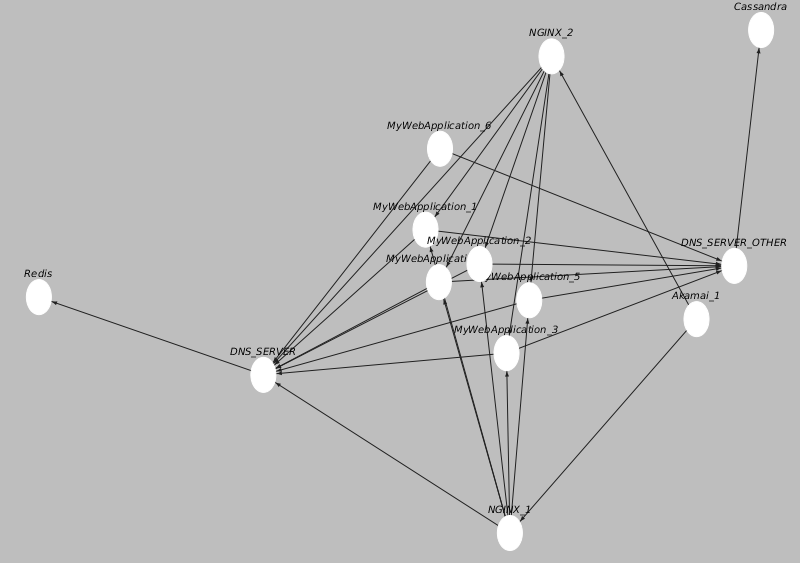
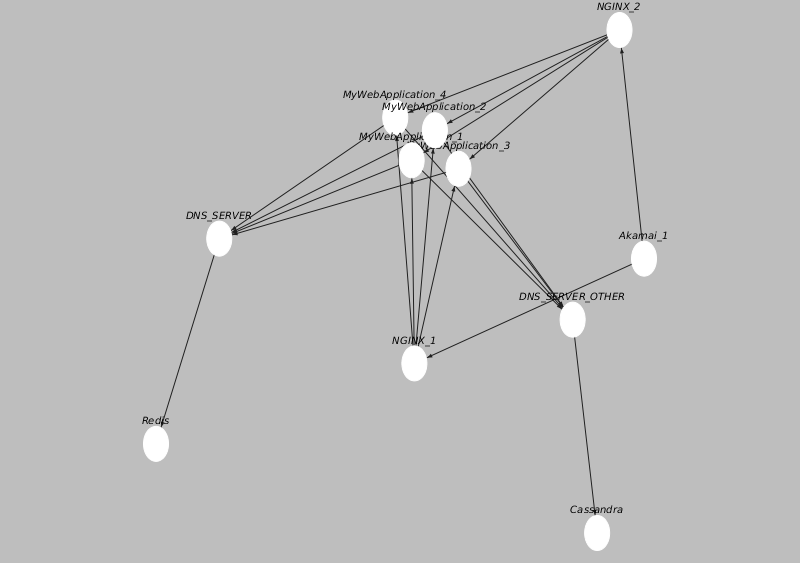
fixed bug where an incorrect path was being generated for discoverable nodes.

diff --git a/src/test/kotlin/org/slug/MicroserviceGeneratorTest.kt b/src/test/kotlin/org/slug/MicroserviceGeneratorTest.kt
@@ -2,17 +2,16 @@ package org.slug
 
 import org.graphstream.graph.implementations.SingleGraph
 import org.junit.Assert.assertEquals
-import org.junit.Ignore
 import org.junit.Test
+import org.slug.Component.DiscoverableComponent
+import org.slug.Component.SimpleComponent
 import org.slug.InfrastructureType.*
 import org.slug.LayerConnection.*
-import org.slug.Component.*
 
 
 class MicroserviceGeneratorTest {
 
     @Test
-    @Ignore
     fun generatorShouldAddAllTheComponentsInTheArchitecture() {
         val proxy = Proxy("NGINX")
         val webApplication = WebApplication("MyWebApplication")
@@ -33,13 +32,44 @@ class MicroserviceGeneratorTest {
         generator.begin()
         generator.end()
 
-        assertEquals(9,graph.nodeCount)
-        assertEquals(16,graph.edgeCount)
+        assertEquals(9, graph.nodeCount)
+        assertEquals(16, graph.edgeCount)
 
     }
 
     @Test
-    fun generatorShouldCreateLinksBetweenTheSpecifiedLayers(){
+    fun generatorShouldCreateLinksBetweenTheSpecifiedLayers() {
+        val cdn = CDN("Akamai")
+        val firewall = Firewall("Juniper")
+        val cdn2Proxy = CDN2Firewall(cdn, firewall, 2)
+        val cdnComponent = SimpleComponent(cdn, cdn2Proxy)
+        val cdnLayer = Layer("1", 1, cdnComponent)
+
+        val proxy = Proxy("NGINX")
+        val webApplication = WebApplication("MyWebApplication")
+        val proxy2Web = Proxy2WebApplication(proxy, webApplication, 1)
+        val proxyComponent = SimpleComponent(proxy, proxy2Web)
+        val proxyLayer = Layer("2", 2, proxyComponent)
+
+        val redis = Database("Redis")
+        val dns_server = ServiceDiscovery("DNS_SERVER")
+        val web2redis = ServiceDiscoveryIndirection(webApplication, dns_server, redis)
+        val recommendationComponent = DiscoverableComponent(webApplication, web2redis)
+        val recommendationLayer = Layer("3", 5, recommendationComponent)
+
+        val microservice = Microservice(sequenceOf(cdnLayer, proxyLayer, recommendationLayer))
+        val generator = MicroserviceGenerator(microservice)
+        val graph = SingleGraph("First")
+        generator.addSink(graph)
+        generator.begin()
+        generator.end()
+
+        assertEquals(10, graph.nodeCount)
+        assertEquals(18, graph.edgeCount)
+    }
+
+    @Test
+    fun multipleLayerLinksFromAComponent() {
         val cdn = CDN("Akamai")
         val firewall = Firewall("Juniper")
         val cdn2Proxy = CDN2Firewall(cdn, firewall, 2)
@@ -71,8 +101,8 @@ class MicroserviceGeneratorTest {
         generator.begin()
         generator.end()
 
-        assertEquals(12,graph.nodeCount)
-        assertEquals(24,graph.edgeCount)
-    }
+        assertEquals(12, graph.nodeCount)
+        assertEquals(24, graph.edgeCount)
 
+    }
 }

diff --git a/src/main/kotlin/org/slug/MicroserviceGenerator.kt b/src/main/kotlin/org/slug/MicroserviceGenerator.kt
@@ -57,7 +57,6 @@ class MicroserviceGenerator(val architecture: Microservice) : SourceBase(), Gene
             is DiscoverableComponent -> {
                 val nodeIdentifier = component.connection.via.identifier
                 createNode(sourceId, nodeIdentifier)
-                nodes = nodes.plus(nodeIdentifier)
                 for (r in 1..redundancy) {
                     val nodeIdentifier = createIdentifier(component.type.identifier, r)
                     nodes = nodes.plus(nodeIdentifier)
@@ -75,10 +74,7 @@ class MicroserviceGenerator(val architecture: Microservice) : SourceBase(), Gene
     private fun createLink(firstLayerComponent: Component, froms: Sequence<String>, secondLayerRedundancy: Int, tos: Sequence<String>) {
         when (firstLayerComponent) {
             is SimpleComponent -> {
-                //val outDegree = secondLayerComponent.connection.outDegree
-                //val paths = if (outDegree == 1) 1 else Random().nextInt(outDegree - 1) + 1
                 for (from in froms) {
-                    // pending : probably use FY Shuffle
                     for (to in tos.take(secondLayerRedundancy)) {
                         createEdge(sourceId, from, to)
                     }
